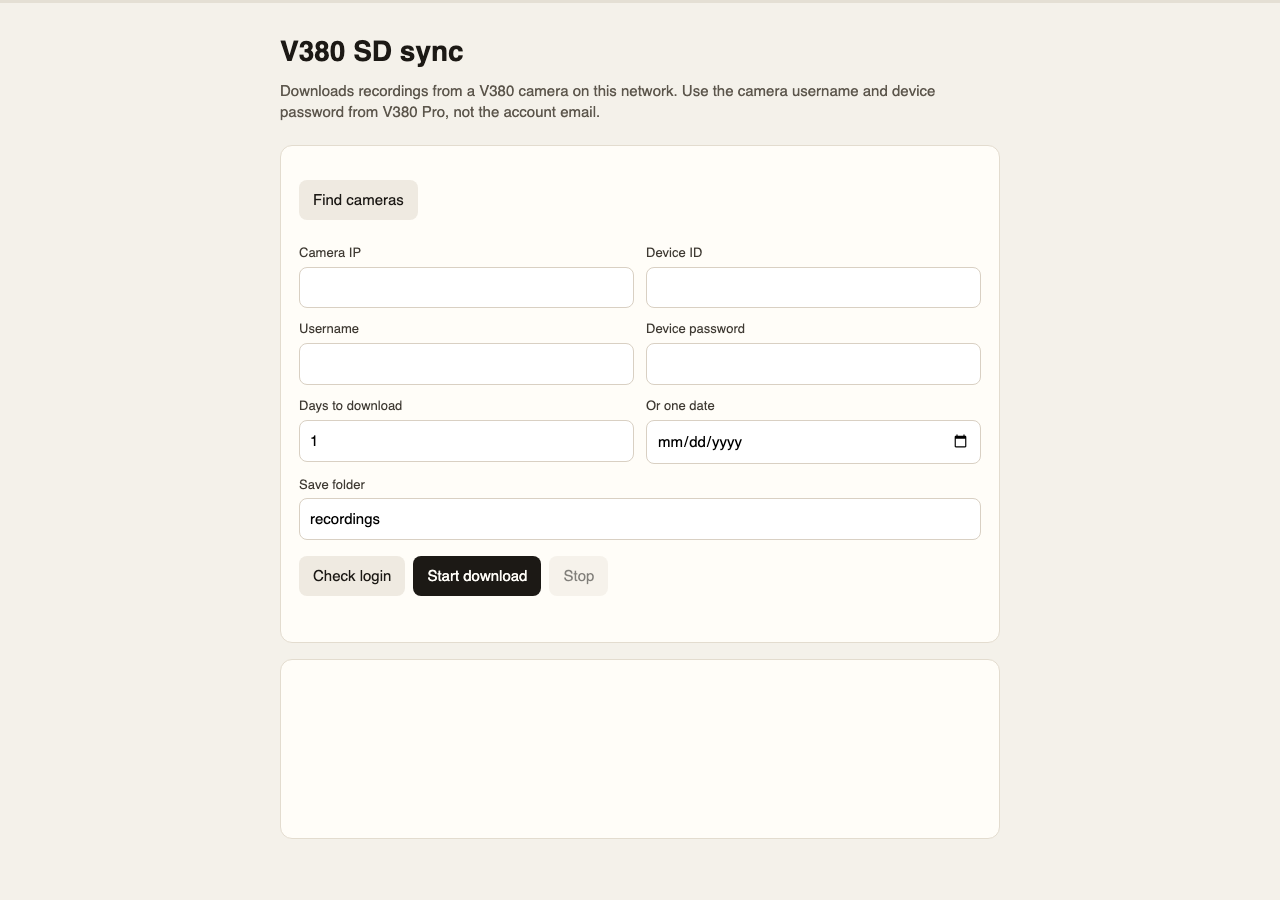
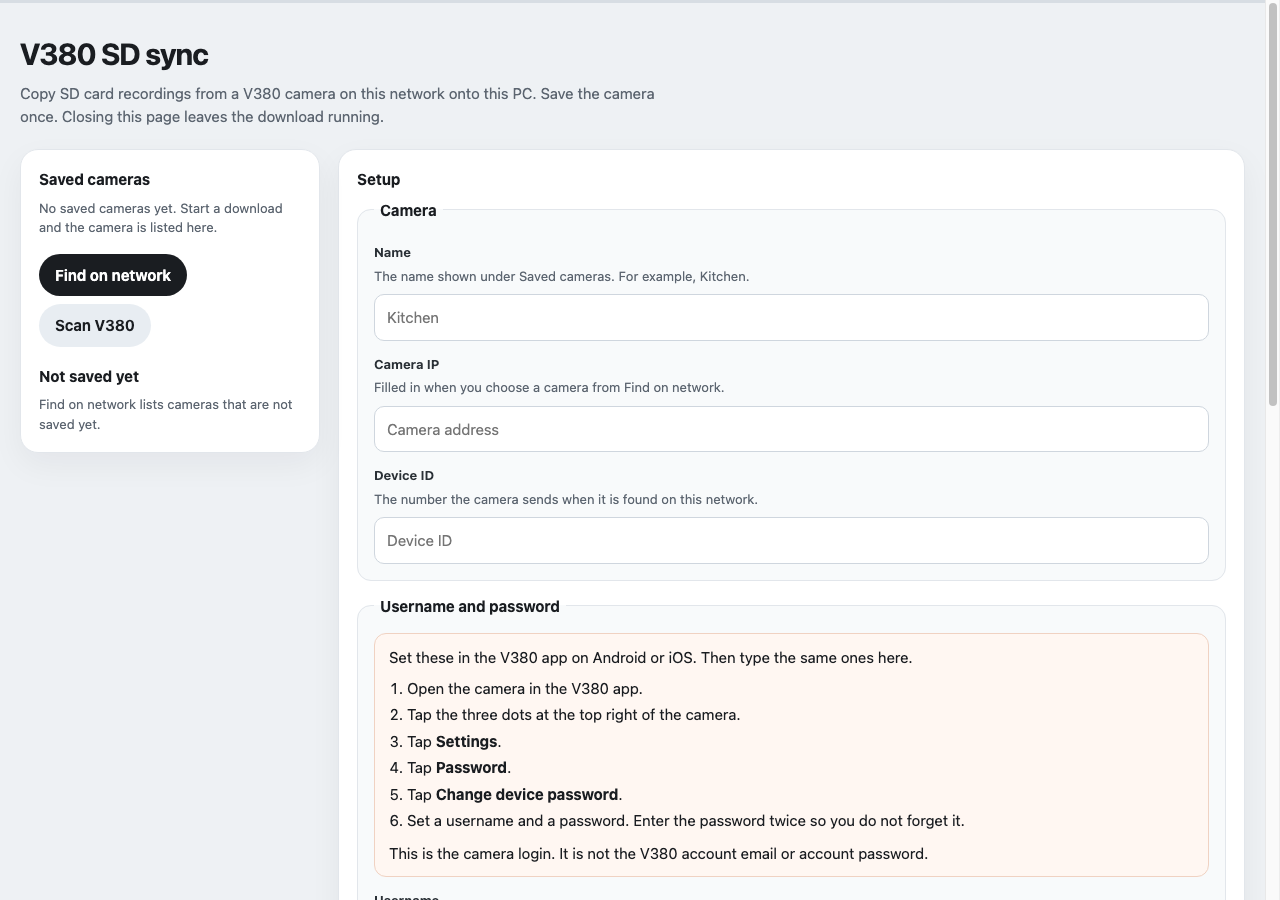
separate the setup fields and show where the camera username and password are set

diff --git a/public/index.html b/public/index.html
@@ -5,19 +5,20 @@
   <meta name="viewport" content="width=device-width, initial-scale=1">
   <title>V380 SD sync</title>
   <style>
-    :root { color-scheme: light; }
+    :root { color-scheme: light; --ink: #1a1d21; --muted: #5c6570; --line: #e2e6eb; --accent: #b8431f; --card: #fff; }
     * { box-sizing: border-box; }
-    body { margin: 0; font: 15px/1.45 "Segoe UI", sans-serif; background: #f4f1ea; color: #1c1915; }
-    header { height: 3px; background: #e4dfd4; }
-    header.busy { background: linear-gradient(90deg, #c4552a 0%, #e7b089 50%, #c4552a 100%); background-size: 200% 100%; animation: slide 1s linear infinite; }
+    body { margin: 0; font: 15px/1.5 "Segoe UI", system-ui, sans-serif; background: #eef1f4; color: var(--ink); }
+    header { height: 3px; background: #d7dde3; }
+    header.busy { background: linear-gradient(90deg, var(--accent) 0%, #e7b089 50%, var(--accent) 100%); background-size: 200% 100%; animation: slide 1s linear infinite; }
     @keyframes slide { from { background-position: 0 0; } to { background-position: 200% 0; } }
-    main { max-width: 1480px; margin: 0 auto; padding: 28px 20px 48px; }
-    h1 { font-size: 28px; font-weight: 650; margin: 0 0 8px; }
+    main { max-width: 1480px; margin: 0 auto; padding: 28px 20px 56px; }
+    h1 { font-size: 30px; font-weight: 680; letter-spacing: -0.03em; margin: 0 0 6px; }
     h2 { font-size: 15px; margin: 0 0 8px; }
-    p.lead { margin: 0 0 22px; max-width: 62ch; color: #5c564c; }
-    .workspace { display: grid; grid-template-columns: 280px minmax(0, 1fr); gap: 18px; align-items: start; }
-    .workspace.watching { grid-template-columns: 240px minmax(0, 1fr) minmax(300px, 420px); }
-    aside, .panel { background: #fffdf8; border: 1px solid #e4d9c8; border-radius: 16px; padding: 16px 16px 18px; box-shadow: 0 10px 30px rgba(60, 42, 20, 0.05); }
+    p.lead { margin: 0 0 22px; max-width: 68ch; color: var(--muted); }
+    .workspace { display: grid; grid-template-columns: 300px minmax(0, 1fr); gap: 18px; align-items: start; }
+    .workspace.watching { grid-template-columns: 260px minmax(0, 1fr) minmax(300px, 420px); }
+    aside, .panel { background: var(--card); border: 1px solid var(--line); border-radius: 18px; padding: 18px; box-shadow: 0 12px 32px rgba(26, 29, 33, 0.05); }
+    aside { position: sticky; top: 16px; }
     form { margin: 0; }
     .panel-bar { display: flex; justify-content: space-between; align-items: center; gap: 8px; margin-bottom: 8px; }
     .panel-bar h2 { margin: 0; }
@@ -45,21 +46,30 @@
     .bar > span { display: block; height: 100%; background: #c4552a; }
     .spin { width: 14px; height: 14px; border: 2px solid #e3dccf; border-top-color: #c4552a; border-radius: 50%; animation: spin 0.8s linear infinite; flex: none; }
     @keyframes spin { to { transform: rotate(360deg); } }
-    aside h2 { margin-top: 16px; }
+    aside h2 { margin-top: 18px; }
     aside h2:first-child { margin-top: 0; }
-    .row { display: grid; grid-template-columns: 1fr 1fr; gap: 12px; }
-    label { display: block; font-size: 13px; margin: 12px 0 4px; color: #3f3a33; }
-    input, select { width: 100%; border: 1px solid #d9d0c3; border-radius: 8px; padding: 9px 10px; font: inherit; background: #fff; }
+    .group { border: 1px solid var(--line); border-radius: 14px; background: #f8fafb; margin: 0 0 14px; padding: 8px 16px 16px; }
+    .group legend { font-weight: 680; padding: 0 6px; }
+    .field { margin-top: 14px; }
+    label { display: block; font-size: 13px; font-weight: 650; margin: 0 0 4px; color: #2a3036; }
+    .field-hint, .hint { margin: 0 0 8px; color: var(--muted); font-size: 13px; }
+    .guide { background: #fff7f2; border: 1px solid #f0d2c2; border-radius: 12px; padding: 12px 14px; margin-top: 8px; }
+    .guide p { margin: 0; }
+    .guide ol { margin: 8px 0 10px; padding-left: 1.2em; }
+    .guide li { margin: 4px 0; }
+    input, select { width: 100%; border: 1px solid #cfd6de; border-radius: 10px; padding: 11px 12px; font: inherit; background: #fff; }
+    input:focus, select:focus { outline: 3px solid #d7e6ff; border-color: #1f6feb; }
     .actions { display: flex; flex-wrap: wrap; gap: 8px; margin-top: 16px; }
-    button { border: 0; border-radius: 999px; padding: 9px 14px; font: inherit; cursor: pointer; background: #1c1915; color: #fffdf8; }
-    button.secondary { background: #efeae1; color: #1c1915; }
-    #settings { background: #fff; color: #1c1915; border: 1px solid #e4d9c8; }
+    button { border: 0; border-radius: 999px; padding: 10px 16px; font: inherit; font-weight: 650; cursor: pointer; background: #1a1d21; color: #fff; }
+    button.secondary { background: #e8edf2; color: #1a1d21; }
+    #start { background: var(--accent); }
+    #settings { background: #fff; color: #1a1d21; border: 1px solid var(--line); }
     button:disabled { opacity: 0.55; cursor: default; }
     .cameras { display: flex; flex-direction: column; gap: 8px; }
-    .cameras button { display: block; width: 100%; text-align: left; background: #fff; color: #1c1915; border: 1px solid #e3dccf; }
-    .cameras button[aria-pressed="true"] { border-color: #c4552a; }
-    .empty { margin: 0; color: #6b645b; font-size: 13px; }
-    .status { min-height: 1.2em; margin: 10px 0 0; color: #6b4a32; }
+    .cameras button { display: block; width: 100%; text-align: left; background: #fff; color: #1a1d21; border: 1px solid var(--line); border-radius: 12px; padding: 12px 14px; font-weight: 500; line-height: 1.35; }
+    .cameras button[aria-pressed="true"] { border-color: var(--accent); background: #fff7f2; box-shadow: inset 3px 0 0 var(--accent); }
+    .empty { margin: 0; color: var(--muted); font-size: 13px; }
+    .status { min-height: 1.2em; margin: 12px 0 0; color: #7a3b22; font-weight: 600; }
     #viewer video { width: 100%; max-height: 70vh; background: #111; border-radius: 10px; }
     #viewer-title { overflow: hidden; text-overflow: ellipsis; white-space: nowrap; }
     .warn { background: #fff4e8; border: 1px solid #e7c7a4; border-radius: 8px; padding: 10px 12px; margin-bottom: 14px; }
@@ -74,7 +84,7 @@
   <header id="bar"></header>
   <main>
     <h1>V380 SD sync</h1>
-    <p class="lead">Syncs recordings from a V380 camera on this network. Save a camera once and the next run connects with that device login. Closing this page leaves the download running.</p>
+    <p class="lead">Copy SD card recordings from a V380 camera on this network onto this PC. Save the camera once. Closing this page leaves the download running.</p>
     <div id="ffmpeg" class="warn" hidden>Downloading ffmpeg. This happens once.</div>
     <div class="workspace">
       <aside>
@@ -89,54 +99,84 @@
       </aside>
       <section class="panel" id="panel">
         <div class="panel-bar">
-          <h2 id="panel-title">Camera</h2>
+          <h2 id="panel-title">Setup</h2>
           <div class="actions">
             <button type="button" id="stop" class="secondary" disabled hidden>Stop</button>
             <button type="button" id="settings" class="secondary" hidden>Settings</button>
           </div>
         </div>
       <form id="form">
-        <label for="name">Name</label>
-        <input id="name" name="name" autocomplete="off" placeholder="Kitchen">
-        <div class="row">
-          <div>
+        <fieldset class="group">
+          <legend>Camera</legend>
+          <div class="field">
+            <label for="name">Name</label>
+            <p class="field-hint">The name shown under Saved cameras. For example, Kitchen.</p>
+            <input id="name" name="name" autocomplete="off" placeholder="Kitchen">
+          </div>
+          <div class="field">
             <label for="host">Camera IP</label>
-            <input id="host" name="host" autocomplete="off" required>
+            <p class="field-hint">Filled in when you choose a camera from Find on network.</p>
+            <input id="host" name="host" autocomplete="off" required placeholder="Camera address">
           </div>
-          <div>
+          <div class="field">
             <label for="deviceId">Device ID</label>
-            <input id="deviceId" name="deviceId" inputmode="numeric" autocomplete="off" required>
+            <p class="field-hint">The number the camera sends when it is found on this network.</p>
+            <input id="deviceId" name="deviceId" inputmode="numeric" autocomplete="off" required placeholder="Device ID">
           </div>
-        </div>
-        <div class="row">
-          <div>
+        </fieldset>
+        <fieldset class="group">
+          <legend>Username and password</legend>
+          <div class="guide">
+            <p>Set these in the V380 app on Android or iOS. Then type the same ones here.</p>
+            <ol>
+              <li>Open the camera in the V380 app.</li>
+              <li>Tap the three dots at the top right of the camera.</li>
+              <li>Tap <strong>Settings</strong>.</li>
+              <li>Tap <strong>Password</strong>.</li>
+              <li>Tap <strong>Change device password</strong>.</li>
+              <li>Set a username and a password. Enter the password twice so you do not forget it.</li>
+            </ol>
+            <p>This is the camera login. It is not the V380 account email or account password.</p>
+          </div>
+          <div class="field">
             <label for="username">Username</label>
-            <input id="username" name="username" autocomplete="username" required>
+            <p class="field-hint">The username you just set in the phone app.</p>
+            <input id="username" name="username" autocomplete="username" required placeholder="Camera username">
           </div>
-          <div>
-            <label for="password">Device password</label>
-            <input id="password" name="password" type="password" autocomplete="current-password">
+          <div class="field">
+            <label for="password">Password</label>
+            <p class="field-hint">The password you just set in the phone app. Leave it blank later to keep the saved one.</p>
+            <input id="password" name="password" type="password" autocomplete="current-password" placeholder="Camera password">
           </div>
-        </div>
-        <div class="row">
-          <div>
+        </fieldset>
+        <fieldset class="group">
+          <legend>What to download</legend>
+          <div class="field">
             <label for="days">Days to download</label>
+            <p class="field-hint">How many recent days to copy. 7 includes today and the six days before it.</p>
             <input id="days" name="days" type="number" min="1" max="60" value="7">
           </div>
-          <div>
+          <div class="field">
             <label for="date">Or one date</label>
+            <p class="field-hint">Fill this only when you want a single day instead of the range above.</p>
             <input id="date" name="date" type="date">
           </div>
-        </div>
-        <label for="outDir">Save folder</label>
-        <input id="outDir" name="outDir" value="recordings">
-        <div class="row">
-          <div>
+        </fieldset>
+        <fieldset class="group">
+          <legend>On this PC</legend>
+          <div class="field">
+            <label for="outDir">Save folder</label>
+            <p class="field-hint">Where the MP4 files are stored on this PC.</p>
+            <input id="outDir" name="outDir" value="recordings">
+          </div>
+          <div class="field">
             <label for="keepAmount">Keep local videos</label>
+            <p class="field-hint">30 days is the default. Older copies are deleted from this PC and stay in the list. Clear the number to keep every saved video. The camera SD card is not changed.</p>
             <input id="keepAmount" name="keepAmount" type="number" min="1" step="1" value="30" placeholder="30">
           </div>
-          <div>
+          <div class="field">
             <label for="keepUnit">Then delete older</label>
+            <p class="field-hint">Minutes, hours, days, weeks, or months. Raise this later to download a deleted clip again.</p>
             <select id="keepUnit" name="keepUnit">
               <option value="minutes">Minutes</option>
               <option value="hours">Hours</option>
@@ -145,12 +185,11 @@
               <option value="months">Months</option>
             </select>
           </div>
-        </div>
-        <p class="empty">30 days is the default. Older videos are deleted from this PC. Clear the number and apply to keep every saved video. The camera SD card is not changed.</p>
+        </fieldset>
         <div class="actions">
+          <button type="submit" id="start">Start download</button>
           <button type="button" id="save" class="secondary">Save camera</button>
           <button type="button" id="check" class="secondary">Check login</button>
-          <button type="submit" id="start">Start download</button>
           <button type="button" id="applyKeep" class="secondary">Apply keep</button>
           <button type="button" id="remove" class="secondary">Remove</button>
         </div>
@@ -393,7 +432,7 @@
       showingFiles = false;
       form.hidden = false;
       explorer.hidden = true;
-      panelTitle.textContent = "Camera";
+      panelTitle.textContent = "Setup";
       settings.hidden = false;
       settings.textContent = "Files";
     }
